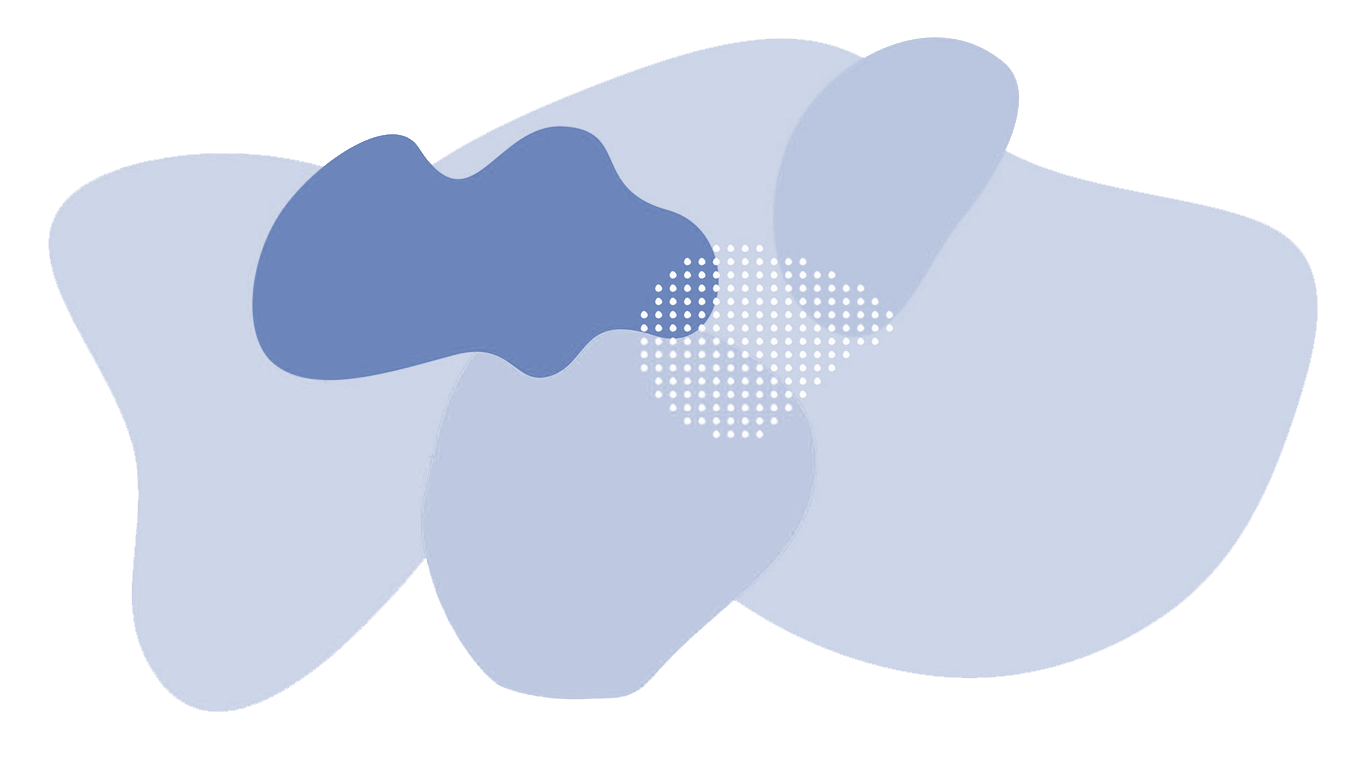
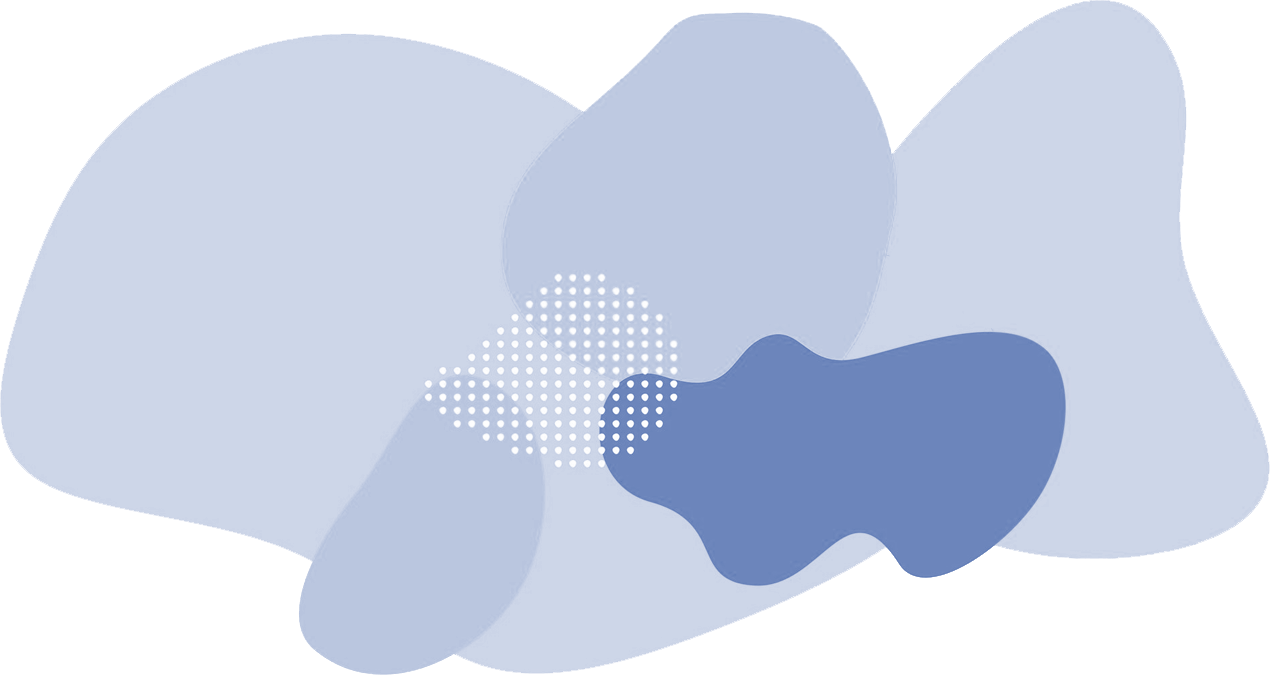
tweaks to colours and animation

diff --git a/css/style.css b/css/style.css
@@ -26,15 +26,14 @@ a:focus {
 }
 
 .btn.btn-info, [type=button].btn-info, [type=reset].btn-info, [type=submit].btn-info, button.btn-info {
-  --btn-color: #6680c1;
+  --btn-color: #7acf6f;
   --btn-fg: var(--cirrus-light);
-  --btn-border-color: #6680c1;
+  --btn-border-color: none;
 }
 
-[class*=' btn-']:not(.btn-container):not(.btn-close).outline:hover, [class^=btn-]:not(.btn-container):not(.btn-close).outline:hover {
-  background-color: #6680c1;
-  color: var(--btn-fg);
-  transition: all var(--animation-duration);
+[class*=' btn-']:not(.btn-container):not(.btn-close):hover, [class^=btn-]:not(.btn-container):not(.btn-close):hover {
+    background-color: #4bb13e;
+    transition: all var(--animation-duration);
 }
 
 .placeholder {
@@ -56,7 +55,7 @@ html {
 body {
   background: #e7eefa;
   background: -webkit-linear-gradient(to bottom, #f7f7f7, #e7eefa);
-  background: linear-gradient(235deg, #f7f7f7, #e7eefa) no-repeat fixed;
+  background: linear-gradient(135deg, #f7f7f7, #e7eefa) no-repeat fixed;
   overflow: scroll;
 }
 
@@ -66,8 +65,10 @@ a {
 }
 
 button {
-  font-size: 0.9em;
+  font-size: 1.1em;
   font-family: 'Noto Sans', sans-serif !important;
+  font-weight: 600;
+  text-transform: capitalize !important;
 }
 
 .clearfix {
@@ -93,17 +94,9 @@ button {
 img#blue-blob {
   position: fixed;
   z-index: -99;
-  left: -35vw;
-  top: -15vw;
+  left: -40vw;
+  top: -10vw;
   opacity: 0.3;
-}
-
-img#mag-blob {
-  position: fixed;
-  z-index: -99;
-  right: -35vw;
-  bottom: -15vw;
-  opacity: 0.5;
 }
 
 /*---------------------------------------------------------------*/
@@ -114,10 +107,10 @@ img#nav-logo {
 }
 
 .nav-w-bg {
-  padding: 10px 10px;
-    background: #f8f8f8;
-    border-radius: 10px;
-    box-shadow: 0 3px 27px rgba(23, 27, 33, 0.16);
+  padding: 12px 12px;
+  background: rgba(249, 249, 249, 0.99);
+  border-radius: 10px;
+  box-shadow: 0 3px 27px rgba(27, 10, 27, 0.2);
 }
 
 /*---------------------------------------------------------------*/

diff --git a/index.html b/index.html
@@ -22,7 +22,6 @@
 
 <body>
   <img src="assets/img/blue-blob.png" id="blue-blob">
-  <img src="assets/img/magenta-blob.png" id="mag-blob">
 
   <!-- Need a new style for when scrolling past landing screen - give a background colour and an animation -->
   <div class="header header-fixed header-clear-mod">
@@ -52,7 +51,7 @@
           <a class="u u-LR" href="#comments">Comments</a>
         </div>
         <div class="nav-item">
-          <button class="outline btn-info" onclick="location.href='user-guide.html'">User Guide</button>
+          <button class="btn-info" onclick="location.href='user-guide.html'">User Guide</button>
         </div>
       </div>
     </div>

diff --git a/assets/js/scroll.js b/assets/js/scroll.js
@@ -8,11 +8,10 @@ img.style.right = 10 + 'vw';
 
 window.addEventListener('scroll', function() {
   var scrollTop = window.pageYOffset || window.scrollTop;
-  var scrollPercent = -scrollTop/scrollArea || 0;
+  var scrollPercent = scrollTop/scrollArea || 0;
 
-  img.style.right = 10 + scrollPercent + 'vw';
-  img.style.top = -1*scrollPercent + 'vw';
-  console.log("hi");
+  img.style.right = 10 + (-0.5* Math.sqrt(scrollPercent * window.scrollY)) * 0.5 + 'vw';
+  img.style.top = (-0.5* Math.sqrt(scrollPercent * window.scrollY)) * 0.5 + 'vw';
 });
 
 $(window).scroll(function() {

diff --git a/user-guide.html b/user-guide.html
@@ -31,7 +31,7 @@
     <div class="header-nav" id="header-menu">
       <div class="nav-right">
         <div class="nav-item">
-          <button class="outline btn-info" onclick="location.href='index.html'">Return</button>
+          <button class="btn-info" onclick="location.href='index.html'">Return</button>
         </div>
       </div>
     </div>
